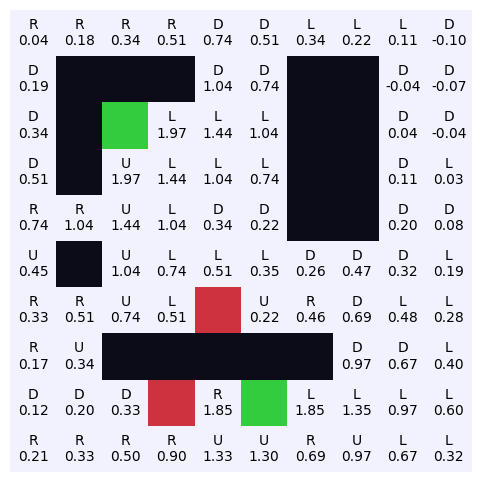
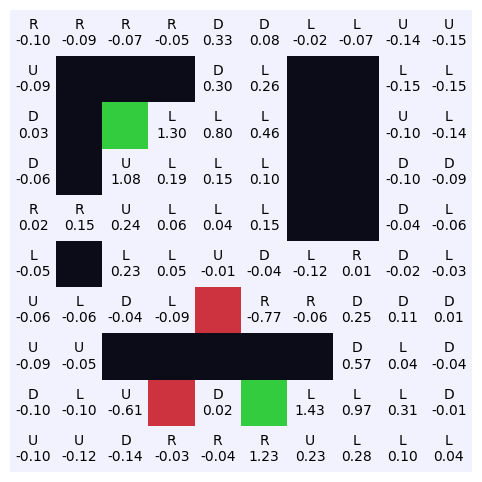
Fix qlearning try step

diff --git a/Assignment04/src/grid.py b/Assignment04/src/grid.py
@@ -52,6 +52,19 @@ class Grid():
         else:
             return self.no_reward
 
+    def try_step(self, action):
+        p = random.uniform(0.0, 1.0)
+        if p < self.p_perform:
+            pass # action = action
+        elif p < self.p_perform + self.p_sidestep / 2:
+            action = action.next_action()
+        elif p < self.p_perform + self.p_sidestep:
+            action = action.prev_action()
+        else: # p < self.p_perform + self.p_sidestep + self.backstep
+            action = action.back_action()
+
+        return self.make_step(action)
+
     def make_step(self, action):
         new_pos = self.pos + action.get_dir(self.width)
         reward = self.no_reward

diff --git a/Assignment04/src/q_learning.py b/Assignment04/src/q_learning.py
@@ -46,7 +46,7 @@ class QLearning():
             for _step in range(max_steps):
                 old_state = self.grid.pos
                 action = self.choose_action()
-                reward = self.grid.make_step(action)
+                reward = self.grid.try_step(action)
                 new_state = self.grid.pos
 
                 self.learn(old_state, action, new_state, reward)
